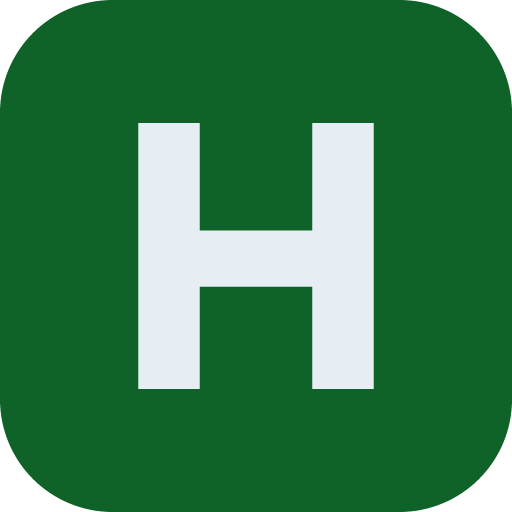
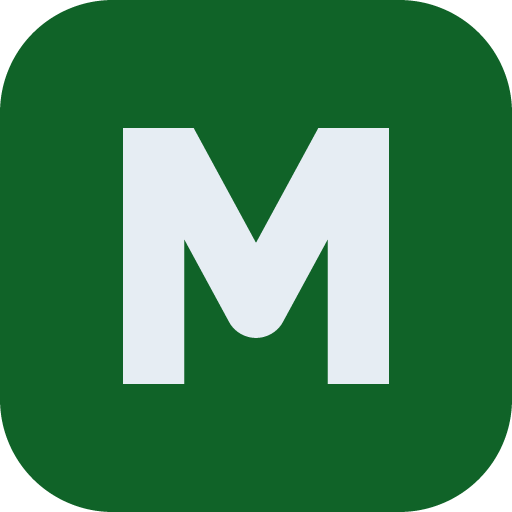
feat: rename the app to Meadhall
Rename everything user-facing: window/tray title, installer product
name, app ID (io.github.peytong.meadhall, so it installs alongside
upstream Heorot), executable, login screen, page title, settings text,
icon monogram and READMEs. The documented 'brand' config key now drives
the login heading, page title, rail logo and session device names
('Meadhall Web' / 'Meadhall Desktop').

Protocol and storage identifiers keep their Heorot names for
compatibility: Matrix event types (com.heorot.*, org.heorot.*),
localStorage/IndexedDB keys, the heorot:// desktop origin, IPC
channels and HEOROT_* env vars.

Changed region(s): [[0.2188, 0.2188, 0.7812, 0.7812]]

diff --git a/apps/web/src/ui/components/AppShell.tsx b/apps/web/src/ui/components/AppShell.tsx
@@ -12,6 +12,7 @@ import {
     type Room,
 } from "matrix-js-sdk/src/matrix";
 
+import { getBrandName } from "../../core/config/branding";
 import { ensureDirectRoomMapping, getDirectRoomIds } from "../adapters/dmAdapter";
 import { describeJoinError, joinRoomWithRetry } from "../adapters/joinAdapter";
 import { mediaFromMxc, thumbnailFromMxc } from "../adapters/media";
@@ -45,6 +46,7 @@ import {
 import type { EmojiPackTarget } from "../emoji/EmojiPackTypes";
 import { useSelectedUser } from "../hooks/useSelectedUser";
 import { useElementLikeNotifications } from "../notifications/useElementLikeNotifications";
+import { useMatrix } from "../providers/MatrixProvider";
 import { buildMatrixToRoomPermalink } from "../utils/permalink";
 import type { RightSidebarMode } from "./rightPanel/types";
 import { VoiceRoom, type VoiceControlState, type VoiceRoomHandle, type VoiceSessionStatus } from "./voice/VoiceRoom";
@@ -800,6 +802,8 @@ async function copyText(value: string): Promise<void> {
 }
 
 export function AppShell({ client, onLogout }: AppShellProps): React.ReactElement {
+    const { config } = useMatrix();
+    const brandInitial = getBrandName(config).charAt(0).toUpperCase();
     const [voiceDiscoveryReady, setVoiceDiscoveryReady] = useState(false);
     const [rooms, setRooms] = useState<Room[]>(() => [...client.getRooms()]);
     const [selectedSpaceId, setSelectedSpaceId] = useState<string>(PEOPLE_SPACE_ID);
@@ -1930,7 +1934,7 @@ export function AppShell({ client, onLogout }: AppShellProps): React.ReactElemen
         <div className={appShellClassName} style={appShellStyle}>
             <DesktopUpdateBanner />
             <aside className="left-rail">
-                <div className="rail-logo">H</div>
+                <div className="rail-logo">{brandInitial}</div>
                 <button
                     type="button"
                     className={`rail-icon${selectedSpaceId === PEOPLE_SPACE_ID ? " is-active" : ""}`}

diff --git a/apps/web/src/ui/App.tsx b/apps/web/src/ui/App.tsx
@@ -1,5 +1,6 @@
-import React from "react";
+import React, { useEffect } from "react";
 
+import { getBrandName, getDeviceDisplayName } from "../core/config/branding";
 import { getDefaultHomeserver, getDefaultIdentityServer, isCustomHomeserverDisabled } from "../core/config/serverDefaults";
 import { AppShell } from "./components/AppShell";
 import { DeviceVerificationView } from "./components/DeviceVerificationView";
@@ -23,6 +24,11 @@ function LoadingView({ label }: { label: string }): React.ReactElement {
 
 function AppRouter(): React.ReactElement {
     const matrix = useMatrix();
+    const brandName = getBrandName(matrix.config);
+
+    useEffect(() => {
+        document.title = brandName;
+    }, [brandName]);
 
     if (matrix.status === "booting") {
         return <LoadingView label="Bootstrapping core..." />;
@@ -35,6 +41,8 @@ function AppRouter(): React.ReactElement {
     if (matrix.status === "login_required") {
         return (
             <LoginView
+                brandName={brandName}
+                deviceDisplayName={getDeviceDisplayName(matrix.config, Boolean(window.heorotDesktop))}
                 defaultHomeserver={getDefaultHomeserver(matrix.config)}
                 defaultIdentityServer={getDefaultIdentityServer(matrix.config)}
                 disableHomeserverInput={isCustomHomeserverDisabled(matrix.config)}
@@ -83,7 +91,7 @@ function AppRouter(): React.ReactElement {
 
     return (
         <div className="error-screen">
-            <h1>Unable to start Heorot UI</h1>
+            <h1>Unable to start {brandName}</h1>
             <p>{matrix.error ?? "Unknown state"}</p>
         </div>
     );

diff --git a/apps/web/src/ui/components/LoginView.tsx b/apps/web/src/ui/components/LoginView.tsx
@@ -19,6 +19,8 @@ type AuthMode = "sign_in" | "register";
 type RegistrationStep = "form" | "uia";
 
 interface LoginViewProps {
+    brandName: string;
+    deviceDisplayName: string;
     defaultHomeserver: string;
     defaultIdentityServer?: string;
     disableHomeserverInput: boolean;
@@ -29,6 +31,8 @@ interface LoginViewProps {
 }
 
 export function LoginView({
+    brandName,
+    deviceDisplayName,
     defaultHomeserver,
     defaultIdentityServer,
     disableHomeserverInput,
@@ -263,7 +267,7 @@ export function LoginView({
     return (
         <div className="login-view">
             <div className="login-card login-card-wide">
-                <h1>Heorot</h1>
+                <h1>{brandName}</h1>
                 <div className="login-mode-switch" role="tablist" aria-label="Authentication flow">
                     <button
                         type="button"
@@ -421,6 +425,7 @@ export function LoginView({
                         username={registerUsername}
                         password={registerPassword}
                         emailAddress={registerUsesEmail ? registerEmail.trim() || undefined : undefined}
+                        initialDeviceDisplayName={deviceDisplayName}
                         onCompleted={handleRegistrationCompleted}
                         onBack={() => {
                             setRegisterStep("form");

diff --git a/apps/web/src/ui/providers/MatrixProvider.tsx b/apps/web/src/ui/providers/MatrixProvider.tsx
@@ -4,6 +4,7 @@ import { MatrixClient as MatrixClientSdk, MatrixError, type MatrixClient } from 
 
 import { bootstrapCore } from "../../bootstrap";
 import type { CoreContext } from "../../core/CoreContext";
+import { getDeviceDisplayName } from "../../core/config/branding";
 import type { CoreConfig } from "../../core/config/configTypes";
 import type { MatrixCredentials } from "../../core/types/credentials";
 import {
@@ -648,7 +649,7 @@ export function MatrixProvider({ children }: React.PropsWithChildren): React.Rea
                         identityServerUrl,
                         username,
                         password,
-                        initialDeviceDisplayName: "Heorot Web",
+                        initialDeviceDisplayName: getDeviceDisplayName(state.config, Boolean(getDesktopBridge())),
                     });
                 } catch (loginError) {
                     const shouldFallback =
@@ -665,7 +666,7 @@ export function MatrixProvider({ children }: React.PropsWithChildren): React.Rea
                         identityServerUrl,
                         username,
                         password,
-                        initialDeviceDisplayName: "Heorot Web",
+                        initialDeviceDisplayName: getDeviceDisplayName(state.config, Boolean(getDesktopBridge())),
                     });
                 }
 

diff --git a/apps/web/test/unit-tests/core/config/branding.test.ts b/apps/web/test/unit-tests/core/config/branding.test.ts
@@ -1,0 +1,22 @@
+import { describe, expect, it } from "vitest";
+
+import { DEFAULT_BRAND, getBrandName, getDeviceDisplayName } from "../../../../src/core/config/branding";
+import { DEFAULT_CORE_CONFIG } from "../../../../src/core/config/defaultConfig";
+
+describe("branding", () => {
+    it("defaults to Meadhall", () => {
+        expect(DEFAULT_BRAND).toBe("Meadhall");
+        expect(DEFAULT_CORE_CONFIG.brand).toBe("Meadhall");
+        expect(getBrandName(null)).toBe("Meadhall");
+        expect(getBrandName({ brand: "   " })).toBe("Meadhall");
+    });
+
+    it("uses the configured brand", () => {
+        expect(getBrandName({ brand: " Example Chat " })).toBe("Example Chat");
+    });
+
+    it("names devices after the brand and runtime", () => {
+        expect(getDeviceDisplayName(null, false)).toBe("Meadhall Web");
+        expect(getDeviceDisplayName({ brand: "Example Chat" }, true)).toBe("Example Chat Desktop");
+    });
+});

diff --git a/apps/web/test/unit-tests/ui/components/DesktopUpdateBanner.test.tsx b/apps/web/test/unit-tests/ui/components/DesktopUpdateBanner.test.tsx
@@ -72,7 +72,7 @@ describe("DesktopUpdateBanner", () => {
         await act(async () => {
             emitStatus({ state: "downloaded", version: "0.2.0" });
         });
-        expect(container.textContent).toContain("Heorot 0.2.0 is ready to install.");
+        expect(container.textContent).toContain("Version 0.2.0 is ready to install.");
     });
 
     it("installs on request and can be dismissed until the next version", async () => {
@@ -97,7 +97,7 @@ describe("DesktopUpdateBanner", () => {
         await act(async () => {
             emitStatus({ state: "downloaded", version: "0.3.0" });
         });
-        expect(container.textContent).toContain("Heorot 0.3.0 is ready to install.");
+        expect(container.textContent).toContain("Version 0.3.0 is ready to install.");
     });
 
     it("unsubscribes from update events on unmount", async () => {

diff --git a/apps/web/src/core/config/branding.ts b/apps/web/src/core/config/branding.ts
@@ -1,0 +1,15 @@
+import type { CoreConfig } from "./configTypes";
+
+// Meadhall is a fork of Heorot. Only the user-facing name changed: Matrix event types (com.heorot.*, org.heorot.*),
+// storage keys and the heorot:// desktop origin keep their names for compatibility with Heorot clients and data.
+export const DEFAULT_BRAND = "Meadhall";
+
+export function getBrandName(config: CoreConfig | null | undefined): string {
+    const brand = typeof config?.brand === "string" ? config.brand.trim() : "";
+    return brand.length > 0 ? brand : DEFAULT_BRAND;
+}
+
+// Shown to other clients (e.g. Element's session list) for sessions this app creates.
+export function getDeviceDisplayName(config: CoreConfig | null | undefined, isDesktop: boolean): string {
+    return `${getBrandName(config)} ${isDesktop ? "Desktop" : "Web"}`;
+}

diff --git a/apps/desktop/electron/loginItem.ts b/apps/desktop/electron/loginItem.ts
@@ -10,7 +10,7 @@ export const START_HIDDEN_ARG = "--hidden";
 
 function getLinuxAutostartPath(): string {
     const configHome = process.env.XDG_CONFIG_HOME?.trim() || path.join(os.homedir(), ".config");
-    return path.join(configHome, "autostart", "heorot.desktop");
+    return path.join(configHome, "autostart", "meadhall.desktop");
 }
 
 function getLinuxExecutable(): string {
@@ -42,7 +42,7 @@ export function setStartAtLogin(enabled: boolean): void {
             [
                 "[Desktop Entry]",
                 "Type=Application",
-                "Name=Heorot",
+                "Name=Meadhall",
                 `Exec=${quoteDesktopExecArg(getLinuxExecutable())} ${START_HIDDEN_ARG}`,
                 "X-GNOME-Autostart-enabled=true",
                 "",

diff --git a/apps/web/src/ui/components/auth/RegistrationInteractiveAuth.tsx b/apps/web/src/ui/components/auth/RegistrationInteractiveAuth.tsx
@@ -10,6 +10,7 @@ import {
     type RegisterResponse,
 } from "matrix-js-sdk/src/matrix";
 
+import { DEFAULT_BRAND } from "../../../core/config/branding";
 import type { MatrixCredentials } from "../../../core/types/credentials";
 
 interface RegistrationInteractiveAuthProps {
@@ -119,7 +120,7 @@ export function RegistrationInteractiveAuth({
     username,
     password,
     emailAddress,
-    initialDeviceDisplayName = "Heorot Web",
+    initialDeviceDisplayName = `${DEFAULT_BRAND} Web`,
     onCompleted,
     onBack,
 }: RegistrationInteractiveAuthProps): React.ReactElement {

diff --git a/apps/desktop/electron/main.ts b/apps/desktop/electron/main.ts
@@ -9,7 +9,7 @@ import { createTray, destroyTray, hasTray } from "./tray";
 import { configureAutoUpdater, getUpdateStatus, installDownloadedUpdate, isAutoUpdateSupported } from "./updater";
 import { openExternalSafely, readWindowState, writeWindowState } from "./util";
 
-const APP_TITLE = "Heorot";
+const APP_TITLE = "Meadhall";
 const DEFAULT_DEV_URL = "http://127.0.0.1:5173";
 const DEV_URL = process.env.HEOROT_DESKTOP_DEV_URL?.trim()
     || (process.env.HEOROT_DESKTOP_DEV === "1" ? DEFAULT_DEV_URL : undefined);

diff --git a/apps/web/src/ui/settings/user/tabs/AppearanceTab.tsx b/apps/web/src/ui/settings/user/tabs/AppearanceTab.tsx
@@ -200,7 +200,7 @@ export function AppearanceTab({
                             void window.heorotDesktop?.setStartAtLogin?.(event.target.checked).then(setStartAtLogin);
                         }}
                     />
-                    Start Heorot when you sign in to your computer (desktop)
+                    Open in the background when you sign in to your computer (desktop)
                 </label>
             ) : null}
         </div>

diff --git a/apps/web/src/ui/components/DesktopUpdateBanner.tsx b/apps/web/src/ui/components/DesktopUpdateBanner.tsx
@@ -33,7 +33,7 @@ export function DesktopUpdateBanner(): React.ReactElement | null {
 
     return (
         <div className="desktop-update-banner" role="status">
-            <span>Heorot {status.version} is ready to install.</span>
+            <span>Version {status.version} is ready to install.</span>
             <button
                 type="button"
                 className="desktop-update-banner-primary"
